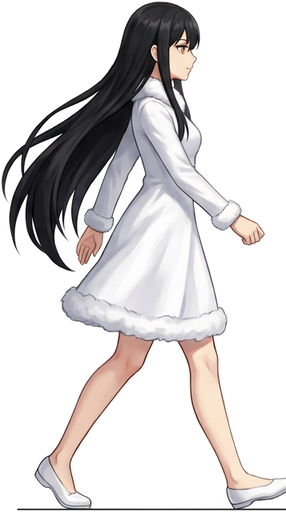
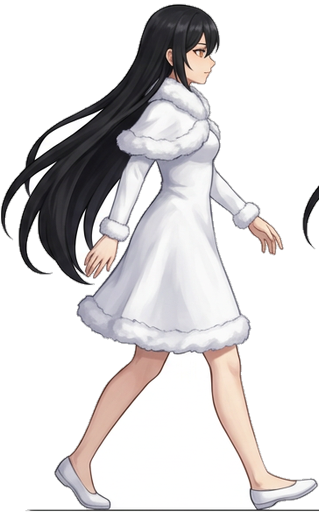
Пересборка шагов Хаары: единый масштаб и одна линия земли во всех4 фазах (раньше кадры масштабировались по отдельности — был джиттер); при получении урона — яркое красное мигание ×3 в HeroHealth.Flash

Changed region(s): [[0.0, 0.0, 1.0, 1.0], [0.951, 0.3438, 1.0, 0.5]]

diff --git a/Assets/Scripts/HeroHealth.cs b/Assets/Scripts/HeroHealth.cs
@@ -95,8 +95,18 @@ public class HeroHealth : MonoBehaviour
         var sr = GetComponent<SpriteRenderer>();
         if (sr == null) yield break;
         Color baseColor = sr.color;
-        sr.color = new Color(1f, 0.4f, 0.35f, baseColor.a);
-        yield return new WaitForSeconds(0.15f);
+        // При получении урона — яркое покраснение с миганием (как в Genshin)
+        Color red = new Color(1f, 0.12f, 0.08f, baseColor.a);
+        for (int i = 0; i < 3; i++)
+        {
+            sr.color = red;
+            yield return new WaitForSeconds(0.09f);
+            if (i < 2)
+            {
+                sr.color = baseColor;
+                yield return new WaitForSeconds(0.06f);
+            }
+        }
         if (sr != null) sr.color = baseColor;
         flashing = null;
     }
